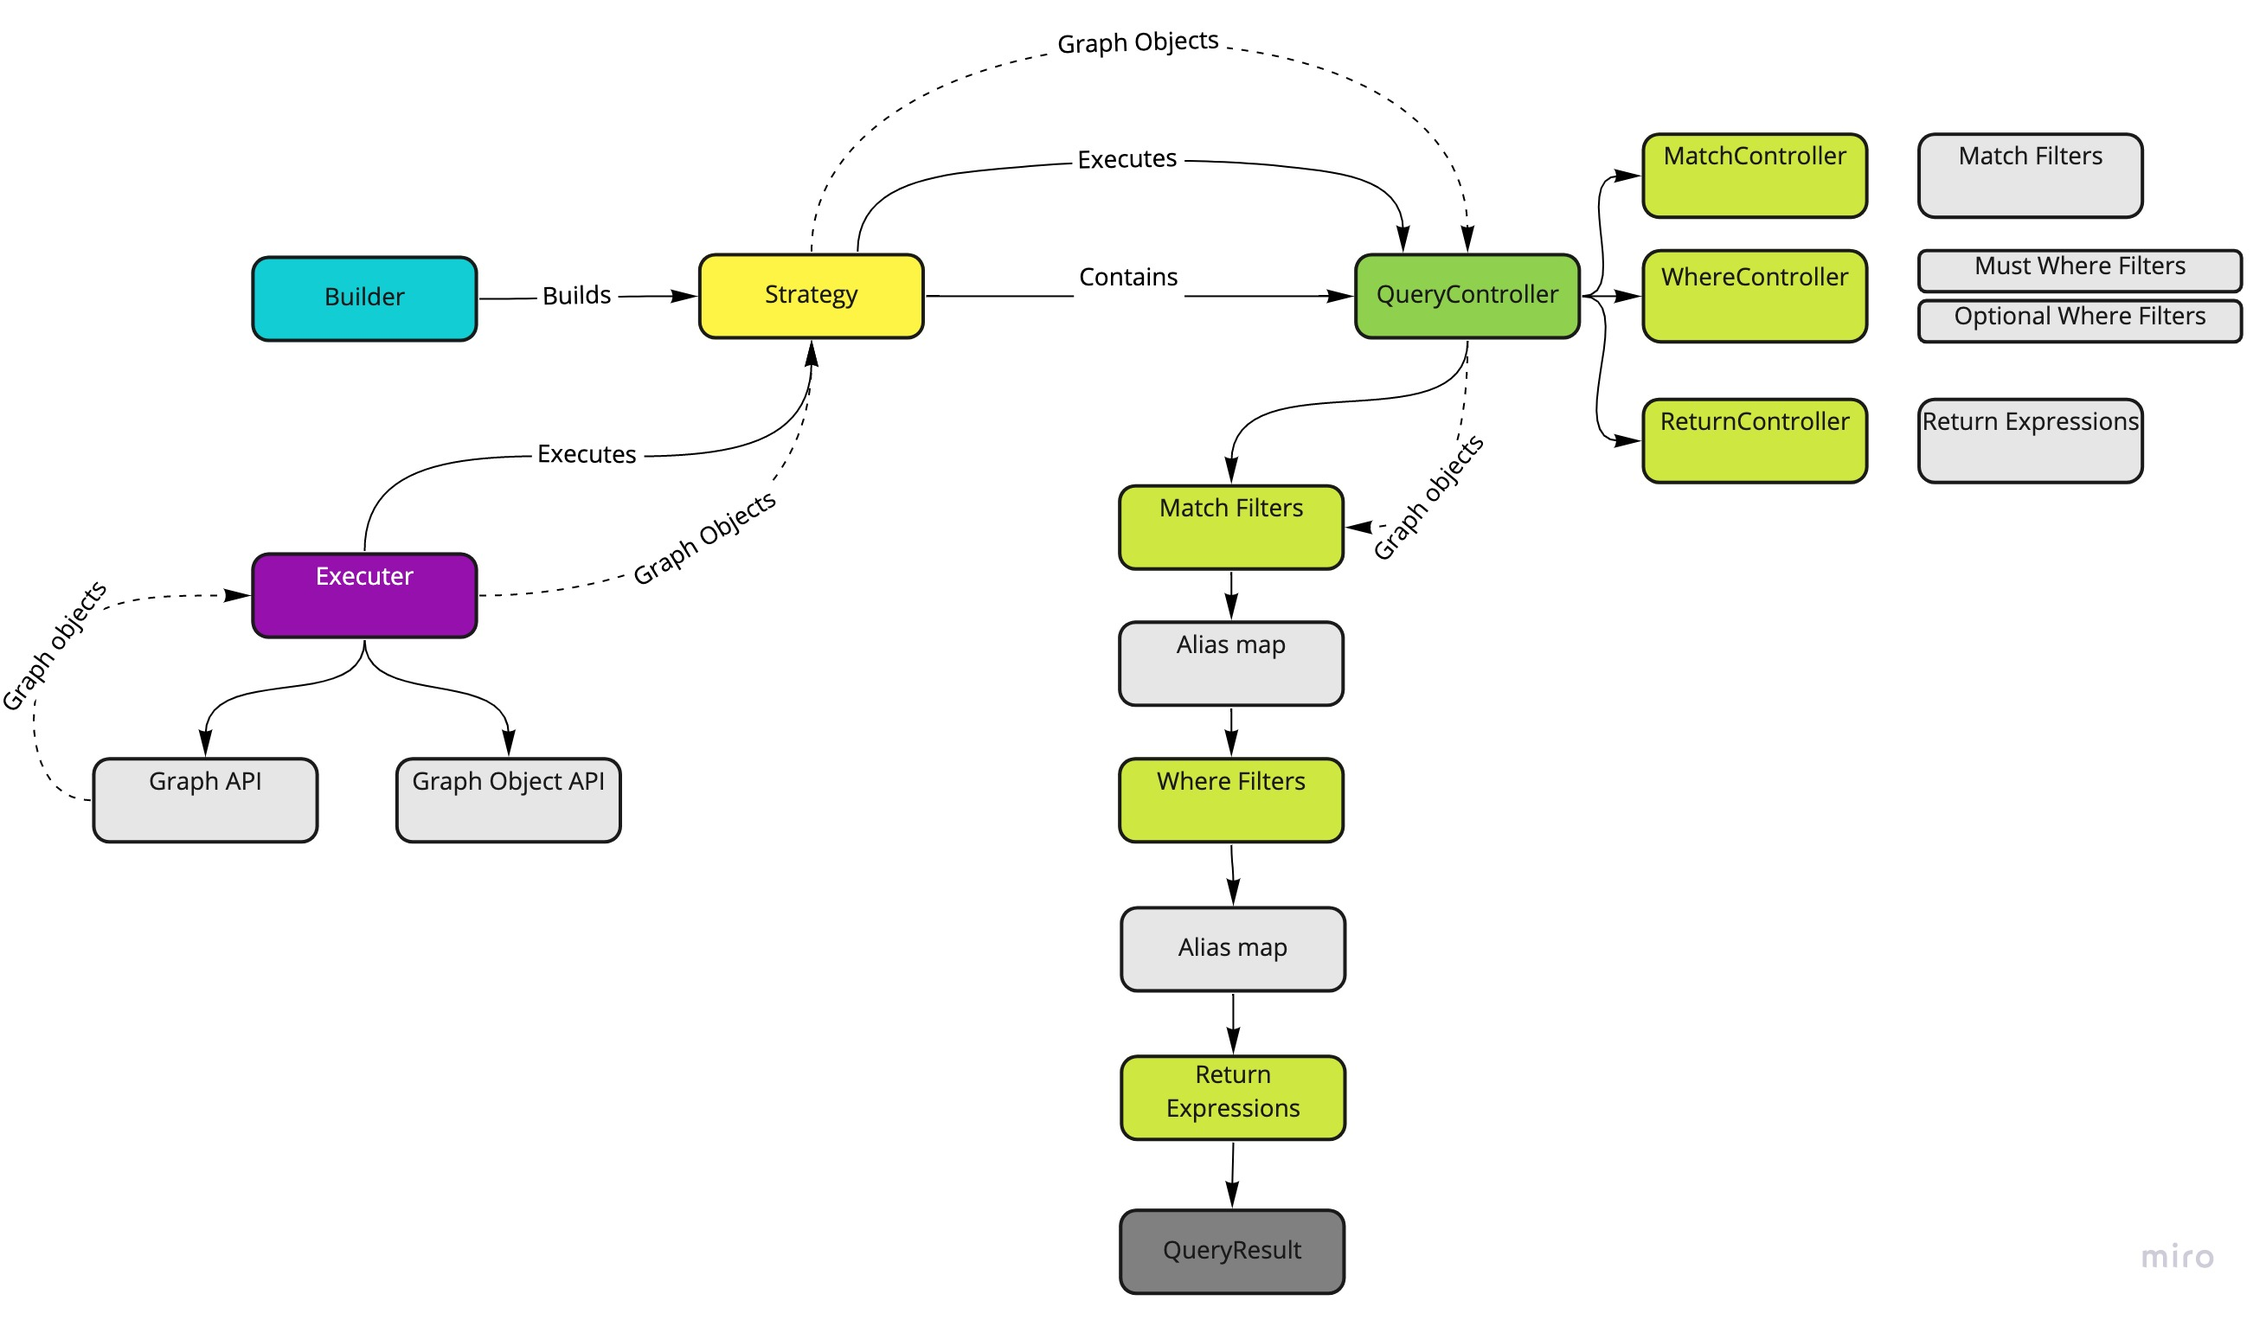
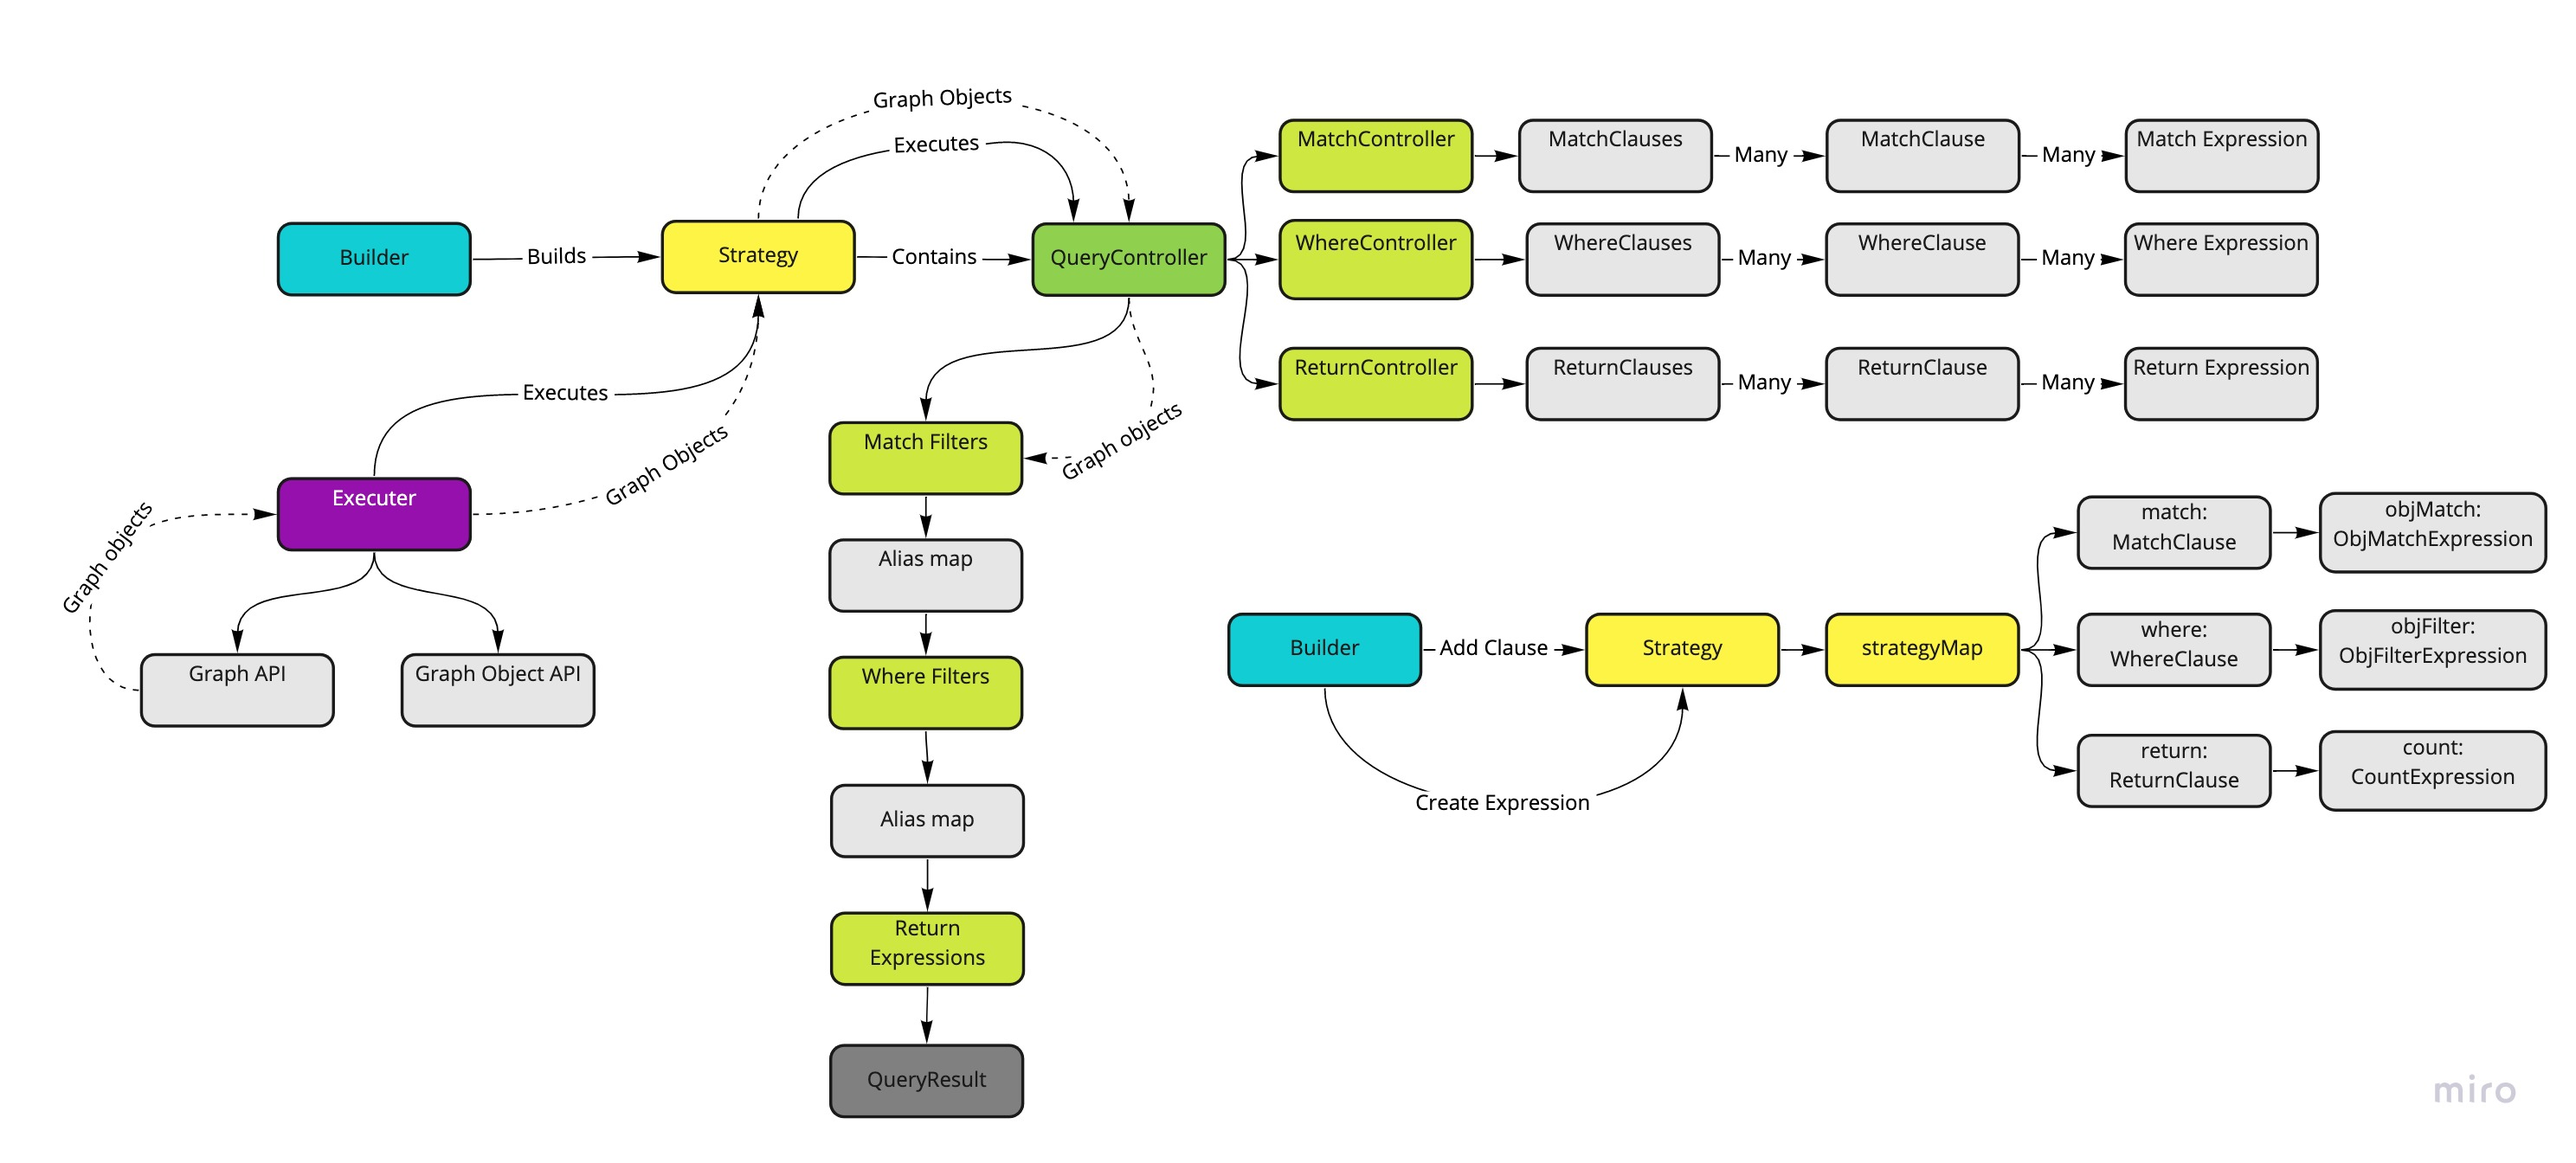
clean up and align docs

diff --git a/src/cypher/strategy/strategy.ts b/src/cypher/strategy/strategy.ts
@@ -1,15 +1,17 @@
-import { IStrategyFilter, StrategyResult } from ".";
 import { IGraphApi } from "../..";
 import { GraphObjDef, IQueryResult } from "../cypher-types";
+import { IQueryController, QueryController } from "./controllers";
 
 export interface ICypherStrategy {
+  queryController: IQueryController;
+  setGraphApi(graphApi: IGraphApi): ICypherStrategy;
   configure(config: any): ICypherStrategy;
-  run(): IQueryResult;
+  run(objs: GraphObjDef[]): IQueryResult;
 }
 
-export class CypherStrategy implements IStrategy {
+export class CypherStrategy implements ICypherStrategy {
   graphApi?: IGraphApi;
-  filter?: IStrategyFilter;
+  queryController: IQueryController = new QueryController();
 
   setGraphApi(graphApi: IGraphApi) {
     this.graphApi = graphApi;
@@ -21,13 +23,9 @@ export class CypherStrategy implements IStrategy {
     return this;
   }
 
-  get filterTree() {
-    return this.filter && this.filter.filterTree;
-  }
-
   run(objs: GraphObjDef[]): IQueryResult {
-    const filterTree = this.filterTree || {};
-    const { matchExec, whereExec, returnExec } = filterTree as any;
+    const controller = this.queryController;
+    const { matchExec, whereExec, returnExec } = controller as any;
     let aliasMap: any;
     if (matchExec) {
       aliasMap = matchExec.filter(objs);

diff --git a/src/cypher/strategy/clauses/query-clause.ts b/src/cypher/strategy/clauses/query-clause.ts
@@ -1,5 +1,5 @@
+import { IFilterExpr } from "..";
 import { ClauseType, WhereFilterType } from "../enum";
-import { ClauseExpressions } from "../expressions/clause-expressions";
 
 export interface IQueryClause {
   subtype: WhereFilterType;
@@ -7,7 +7,12 @@ export interface IQueryClause {
 }
 
 export class QueryClause implements IQueryClause {
-  expressions: ClauseExpressions = new ClauseExpressions();
+  expressions: IFilterExpr[] = [];
+
+  addExpression(...expressions: IFilterExpr[]) {
+    this.expressions.push(...expressions);
+    return this;
+  }
 
   subtype: WhereFilterType = WhereFilterType.none;
 

diff --git a/src/cypher/strategy/filter/index.ts b/src/cypher/strategy/filter/index.ts
@@ -2,7 +2,6 @@ export * from "./filter-expr";
 export * from "./composite-filter-expr";
 export * from "./compose-one-filter-expr";
 export * from "./alias-filter";
-export * from "./strategy-filter";
 export * from "./node-pattern-expr";
 export * from "./prop";
 export * from "./label";

diff --git a/Readme.md b/Readme.md
@@ -152,8 +152,9 @@ Not that more complex comnparison statements like not equal, can be expressed ei
 
 Similarly `{ age: {ngte: 18}` or `{ age: {not: {gte: 18}}` is the same as `{ age: {lt: 18}`
 
-The `Where` builders should build a `StrategyFilter` with filter expressions (`FilterExpr`).
-The `StrategyFilter` is a composite. Any `FilterExpr` can itself be a composite, such as `AndExpr` and `OrExpr`. Each `FilterExpr` implementation must have a `run` method that runs the filter on a graph object (node or edge)
+The `Where` builders should build a `WhereClause` with filter expressions (`FilterExpr`).
+
+Any `FilterExpr` can itself be a composite, such as `AndExpr` and `OrExpr`. Each `FilterExpr` implementation must have a `run` method that runs the filter on a graph object (node or edge)
 
 Any alias referenced (such as `mike` in the above example) must be matched in the alias map created using a previous `Match` builder.
 
@@ -237,7 +238,7 @@ export interface IBuilderMap {
 }
 ```
 
-The `QueryBuilder` must further be configured with a `strategyMap` instance that implement `IStrategyMap` and which contains a map of the factory methods to create each type of strategy for the chainable builder DSL methods.
+The `Strategy` instance used by the builder must be configured with a `strategyMap` instance that implement `IStrategyMap` and which contains a map of the factory methods to create each type of strategy for the chainable builder DSL methods.
 
 This makes the strategy completely configurable and composable, so that you can override, customize and extend with a strategy to fit your particular needs.
 
@@ -277,7 +278,7 @@ export const defaultStrategyMap = (): IStrategyMap => {
 };
 ```
 
-Each builder method looks up a strategy from the strategyMap and adds a query expression (such as a filter) using that strategy. Here is an example for the `AndExprBuilder` (builder of an `And` query expression). The builder class initially creates an instance of `strategyMap.filter.exprMap.boolean.and`. Each time `matches(config)` is called on the builder, the config is parsed/evaluated using `createFilterFrom(config)` and a filter is created from that `config` and added to the and expression using `this.expr.addFilter(expr);`
+Each builder method looks up a "strategy" from the `strategyMap` and adds a query expression (such as a filter) using that strategy. Here is an example for the `AndExprBuilder` (builder of an `And` query expression). The builder class initially creates an instance of `strategyMap.filter.exprMap.boolean.and`. Each time `matches(config)` is called on the builder, the config is parsed/evaluated using `createFilterFrom(config)` and a filter is created from that `config` and added to the and expression using `this.expr.addFilter(expr);`
 
 ```ts
 export class AndExprBuilder extends BaseExprBuilder {
@@ -285,7 +286,12 @@ export class AndExprBuilder extends BaseExprBuilder {
 
   constructor(w: IWhereBuilder, config: any = {}) {
     super(w);
-    this.expr = this.strategyMap.filter.exprMap.boolean.and(config);
+    // Note: the create and add could both be encapsulated under the addExpression method
+    // createExpression uses strategyMap
+    const expr = this.strategy.createExpression("and", config);
+    // based on the expr figures out which controller and clause to add it to
+    this.strategy.addExpression(expr);
+    this.expr = expr;
   }
 
   matches(config: any) {
@@ -312,7 +318,7 @@ The `IMatchController`
 
 ```ts
 export interface IMatchController {
-  expressions: IMatchFilter[];
+  clauses: IMatchClauses;
 }
 ```
 
@@ -321,32 +327,23 @@ The `IWhereController` is a composite of where conditions that MUST be true (in 
 The `IWhereController` must control the execution of both these clauses and sets of filter expressions.
 
 ```ts
-export interface IWhereFilterBucket {
-  must: [];
-  optional: [];
-}
-
 export interface IWhereController {
-  expressions: IWhereFilterBucket;
+  clauses: IWhereClauses;
 }
 
 export class WhereController implements IWhereController {
-  expressions: IWhereFilterBucket = {
-    must: [],
-    optional: [],
-  };
+  clauses: IWhereClauses = new WhereClauses();
 }
 ```
 
-The `IStrategyFilter` must contain all the clauses with expressions built up from the builder. The clauses (and expressions) are maintained and controlled in a `QueryController`.
+The `ICypherStrategy` must contain all the clauses with expressions built up from the builder. The clauses (and expressions) are maintained and controlled in a instance of `IQueryController`.
 
 ```ts
-export interface IStrategyFilter {
-  queryController: IQueryController = new QueryController();
-
-  addFilter(filter: IFilterExpr) {
-    this.queryController.addFilter(filter);
-  }
+export interface ICypherStrategy {
+  queryController: IQueryController;
+  setGraphApi(graphApi: IGraphApi): ICypherStrategy;
+  configure(config: any): ICypherStrategy;
+  run(objs: GraphObjDef[]): IQueryResult;
 }
 ```
 
@@ -373,8 +370,9 @@ export class CypherStrategyExecuter {
 
   run() {
     // configure stategy if needed
+    // traverse graph to retrieve objects to feed to strategy.run
     // run filters in strategy on graph using api
-    return this.strategy.run();
+    return this.strategy.run(objs);
   }
 }
 ```
